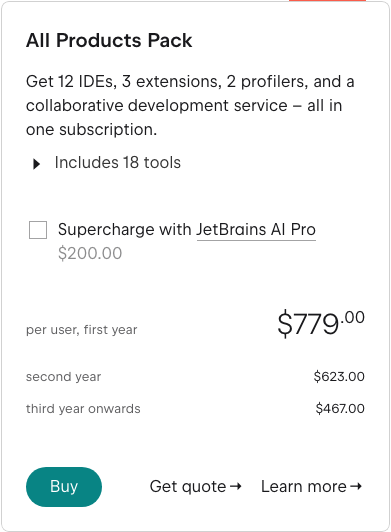
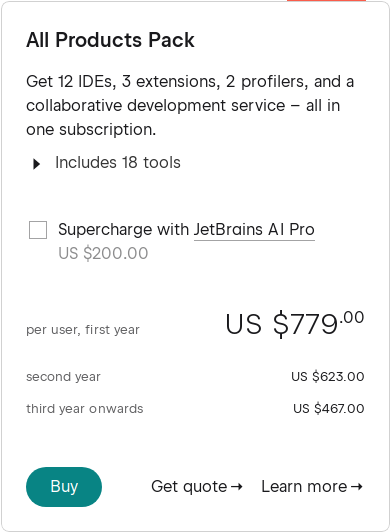
Скриншоты

diff --git a/tests/buyPage.spec.ts b/tests/buyPage.spec.ts
@@ -94,6 +94,8 @@ test.describe(`Behaviour tests`, () => {
 })
 
 test.describe(`Screenshot tests`, () => {
+  // Спросить отчего зависит наличие US перед ценой на карточке
+
   const subscriptionTypes: SubscriptionType[] = [
     { interval: 'Monthly billing', tabName: 'For Individual Use' },
     { interval: 'Monthly billing', tabName: 'For Organizations' },
